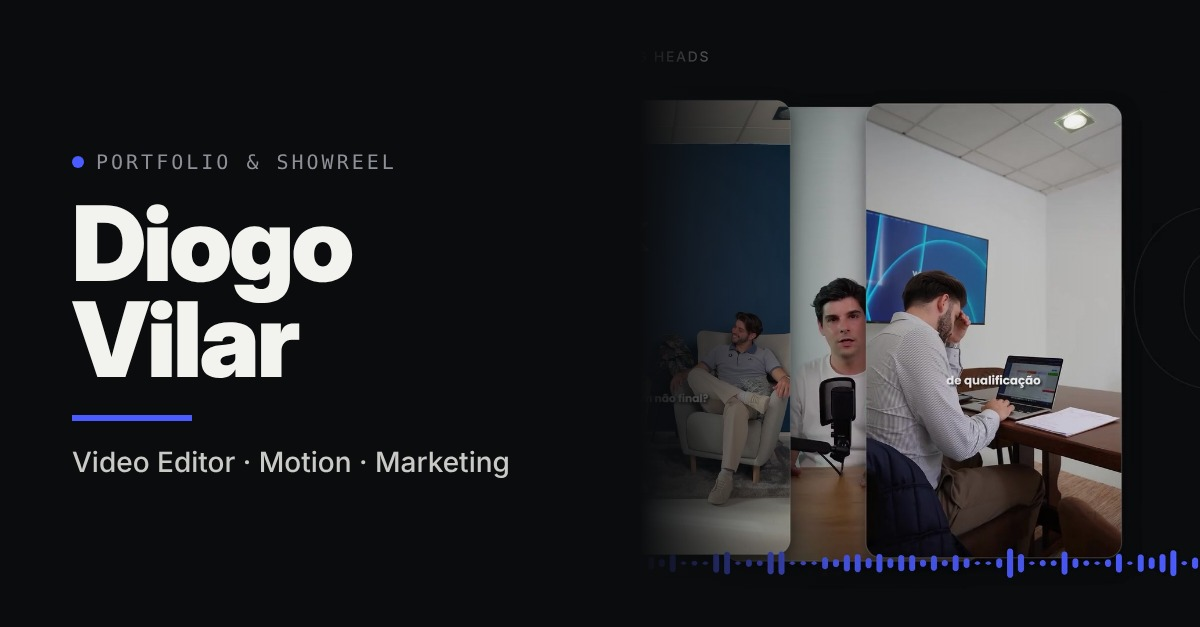
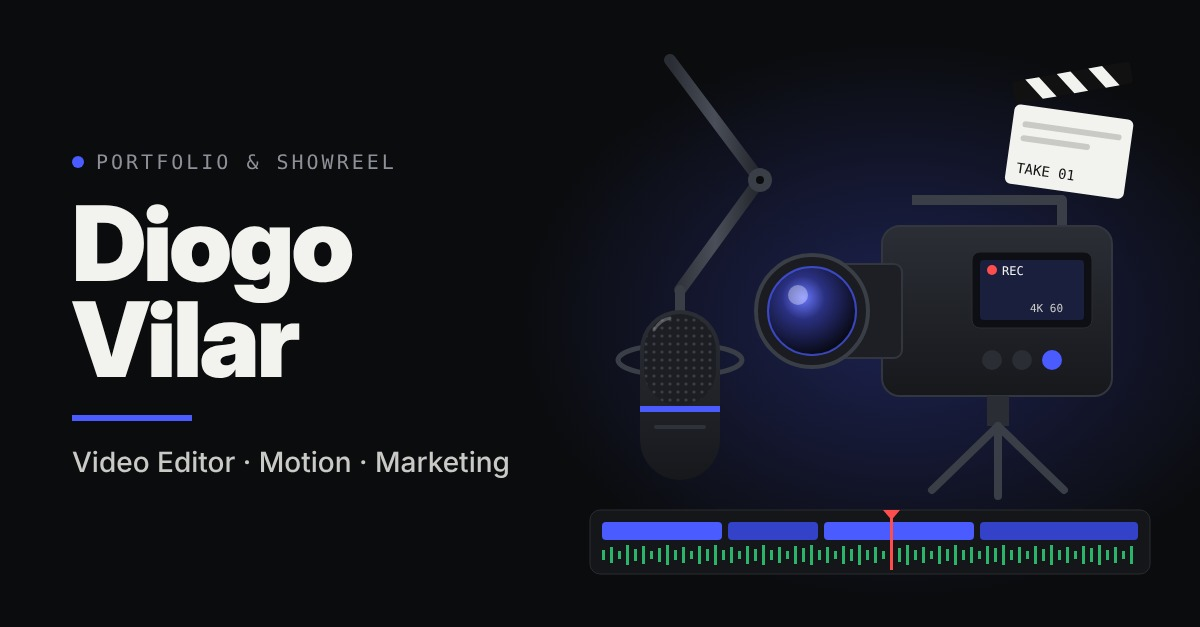
New preview image with studio gear
Claude-Session: https://claude.ai/code/session_01R6H2jZYMPr6d9U7h4Dy3VC

Changed region(s): [[0.4933, 0.0909, 1.0, 0.9394]]

diff --git a/index.html b/index.html
@@ -9,7 +9,7 @@
 <meta property="og:title" content="Diogo Vilar | Portfólio & Showreel">
 <meta property="og:description" content="Video Editor · Motion · Marketing — showreel e projetos / showreel and work (PT/EN).">
 <meta property="og:url" content="https://diogovilar10.github.io/">
-<meta property="og:image" content="https://diogovilar10.github.io/og-image.jpg">
+<meta property="og:image" content="https://diogovilar10.github.io/og-image.jpg?v=2">
 <meta property="og:image:width" content="1200">
 <meta property="og:image:height" content="627">
 <meta name="twitter:card" content="summary_large_image">
